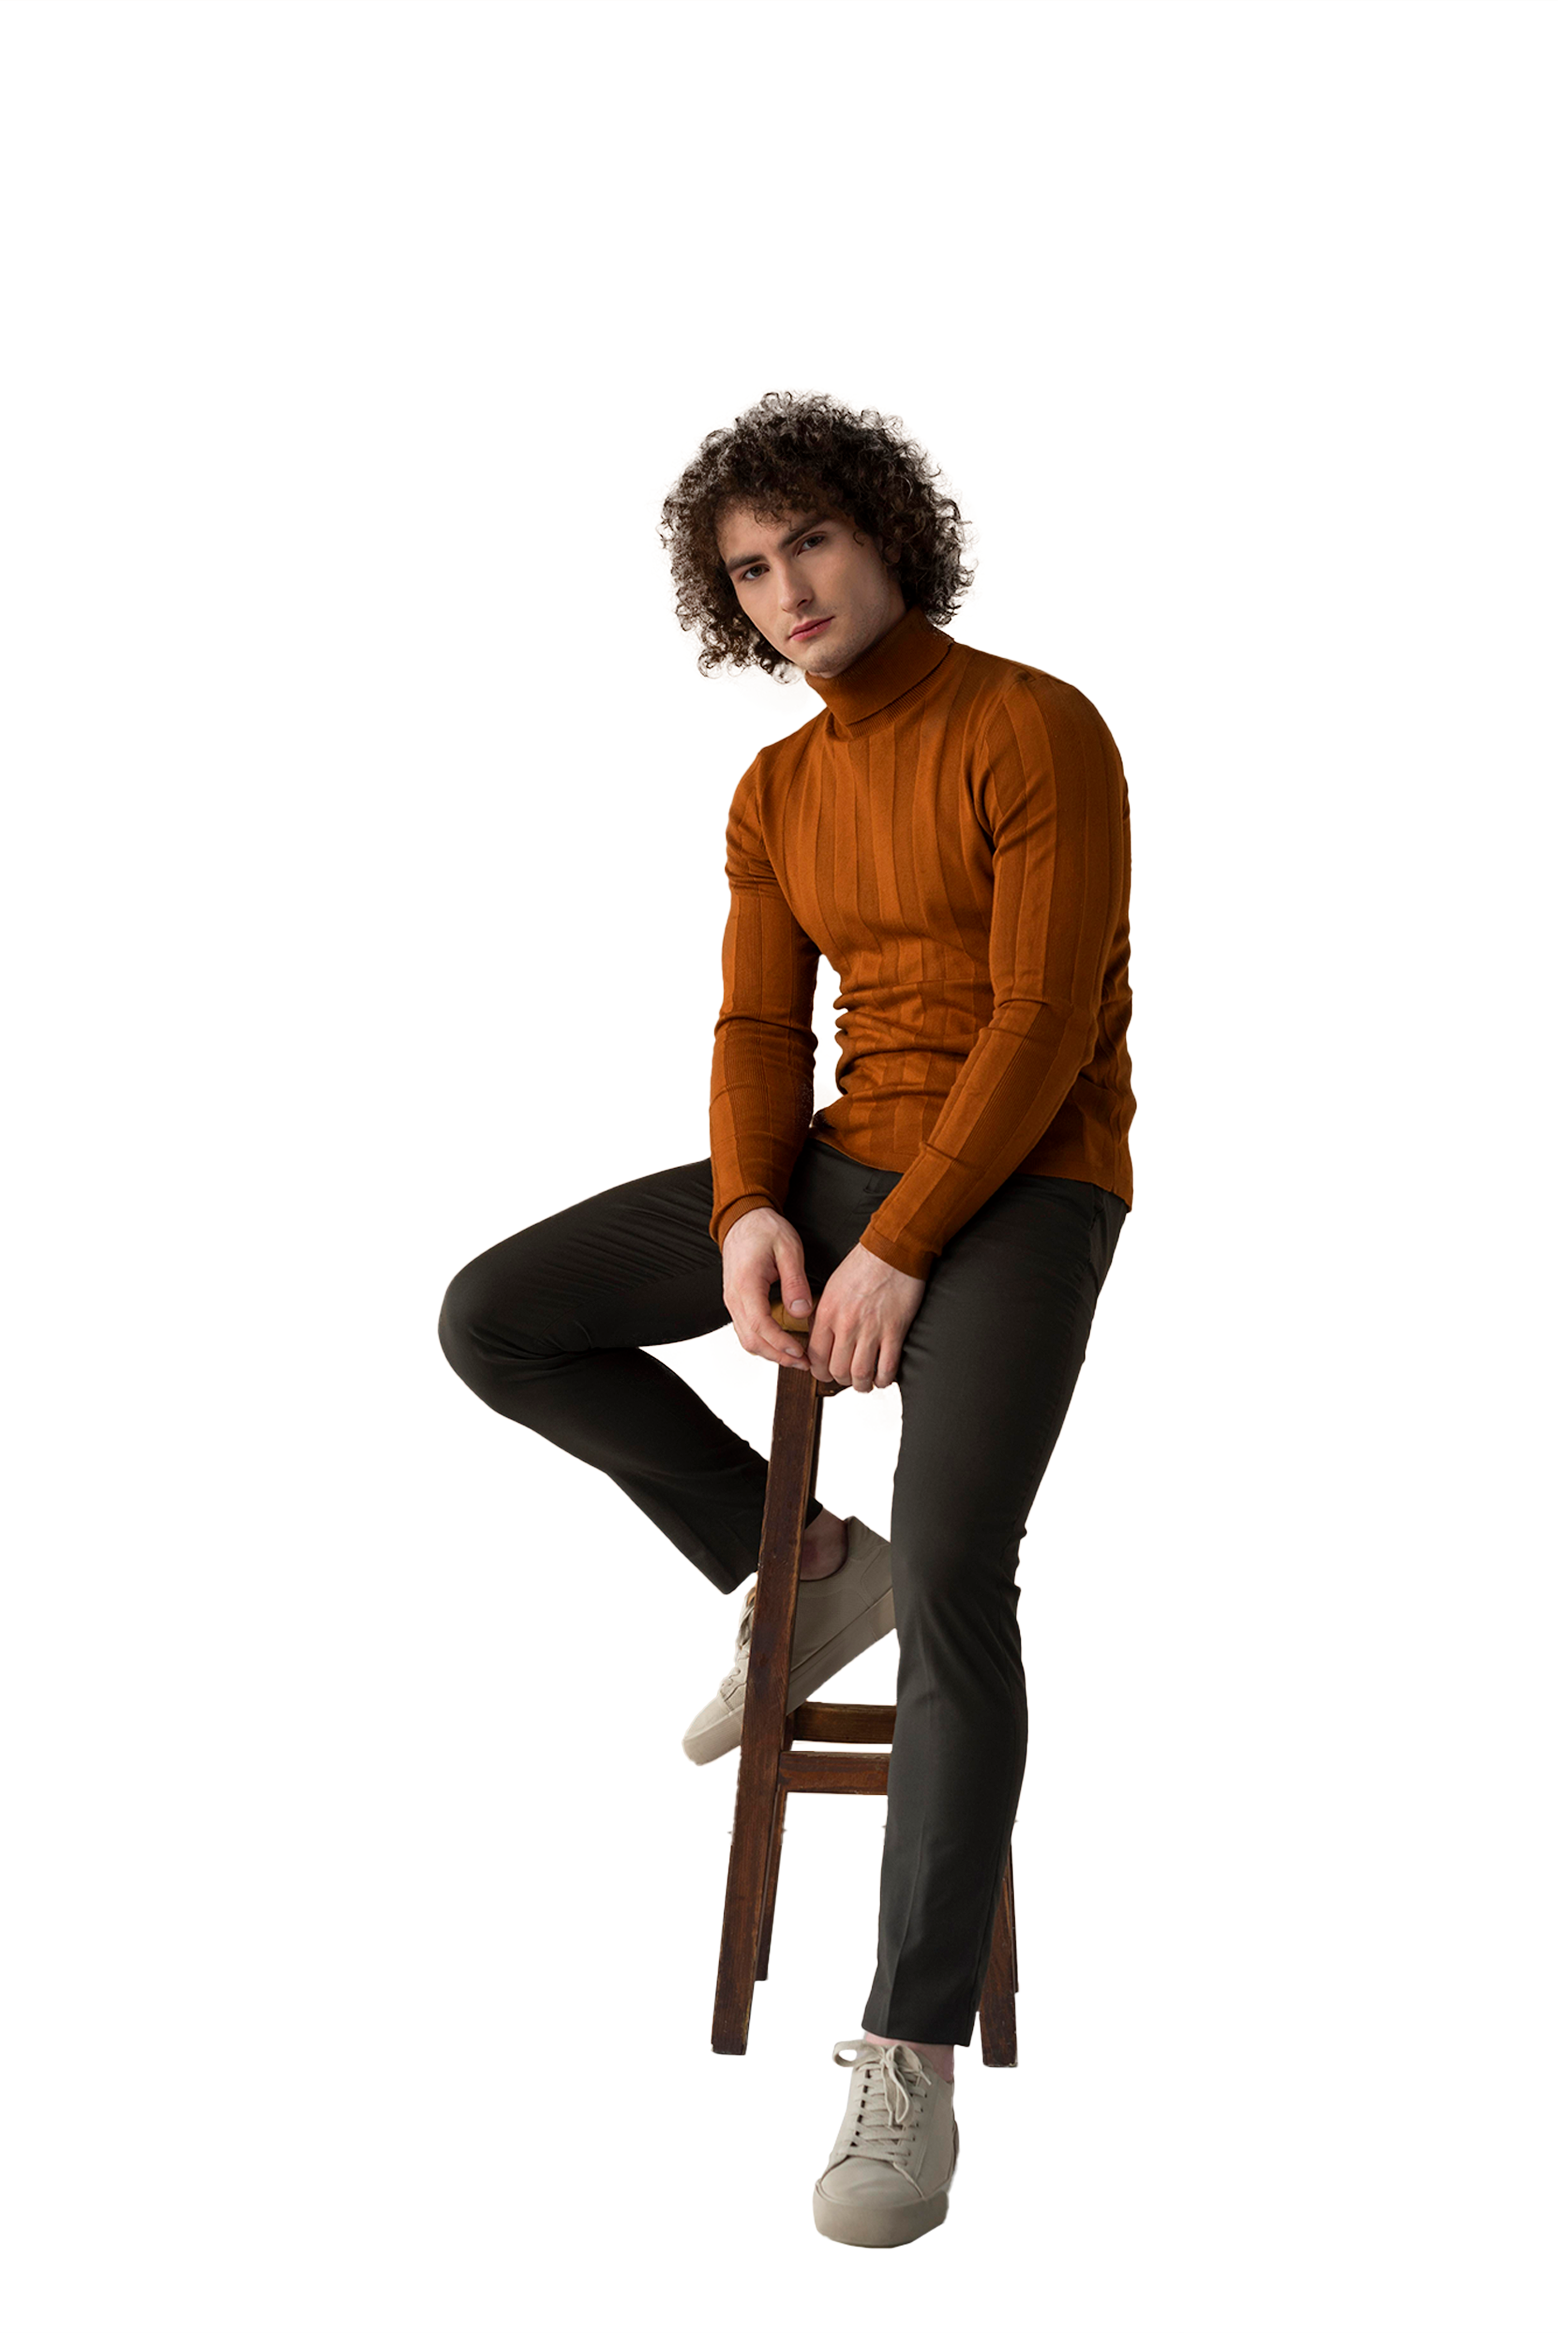
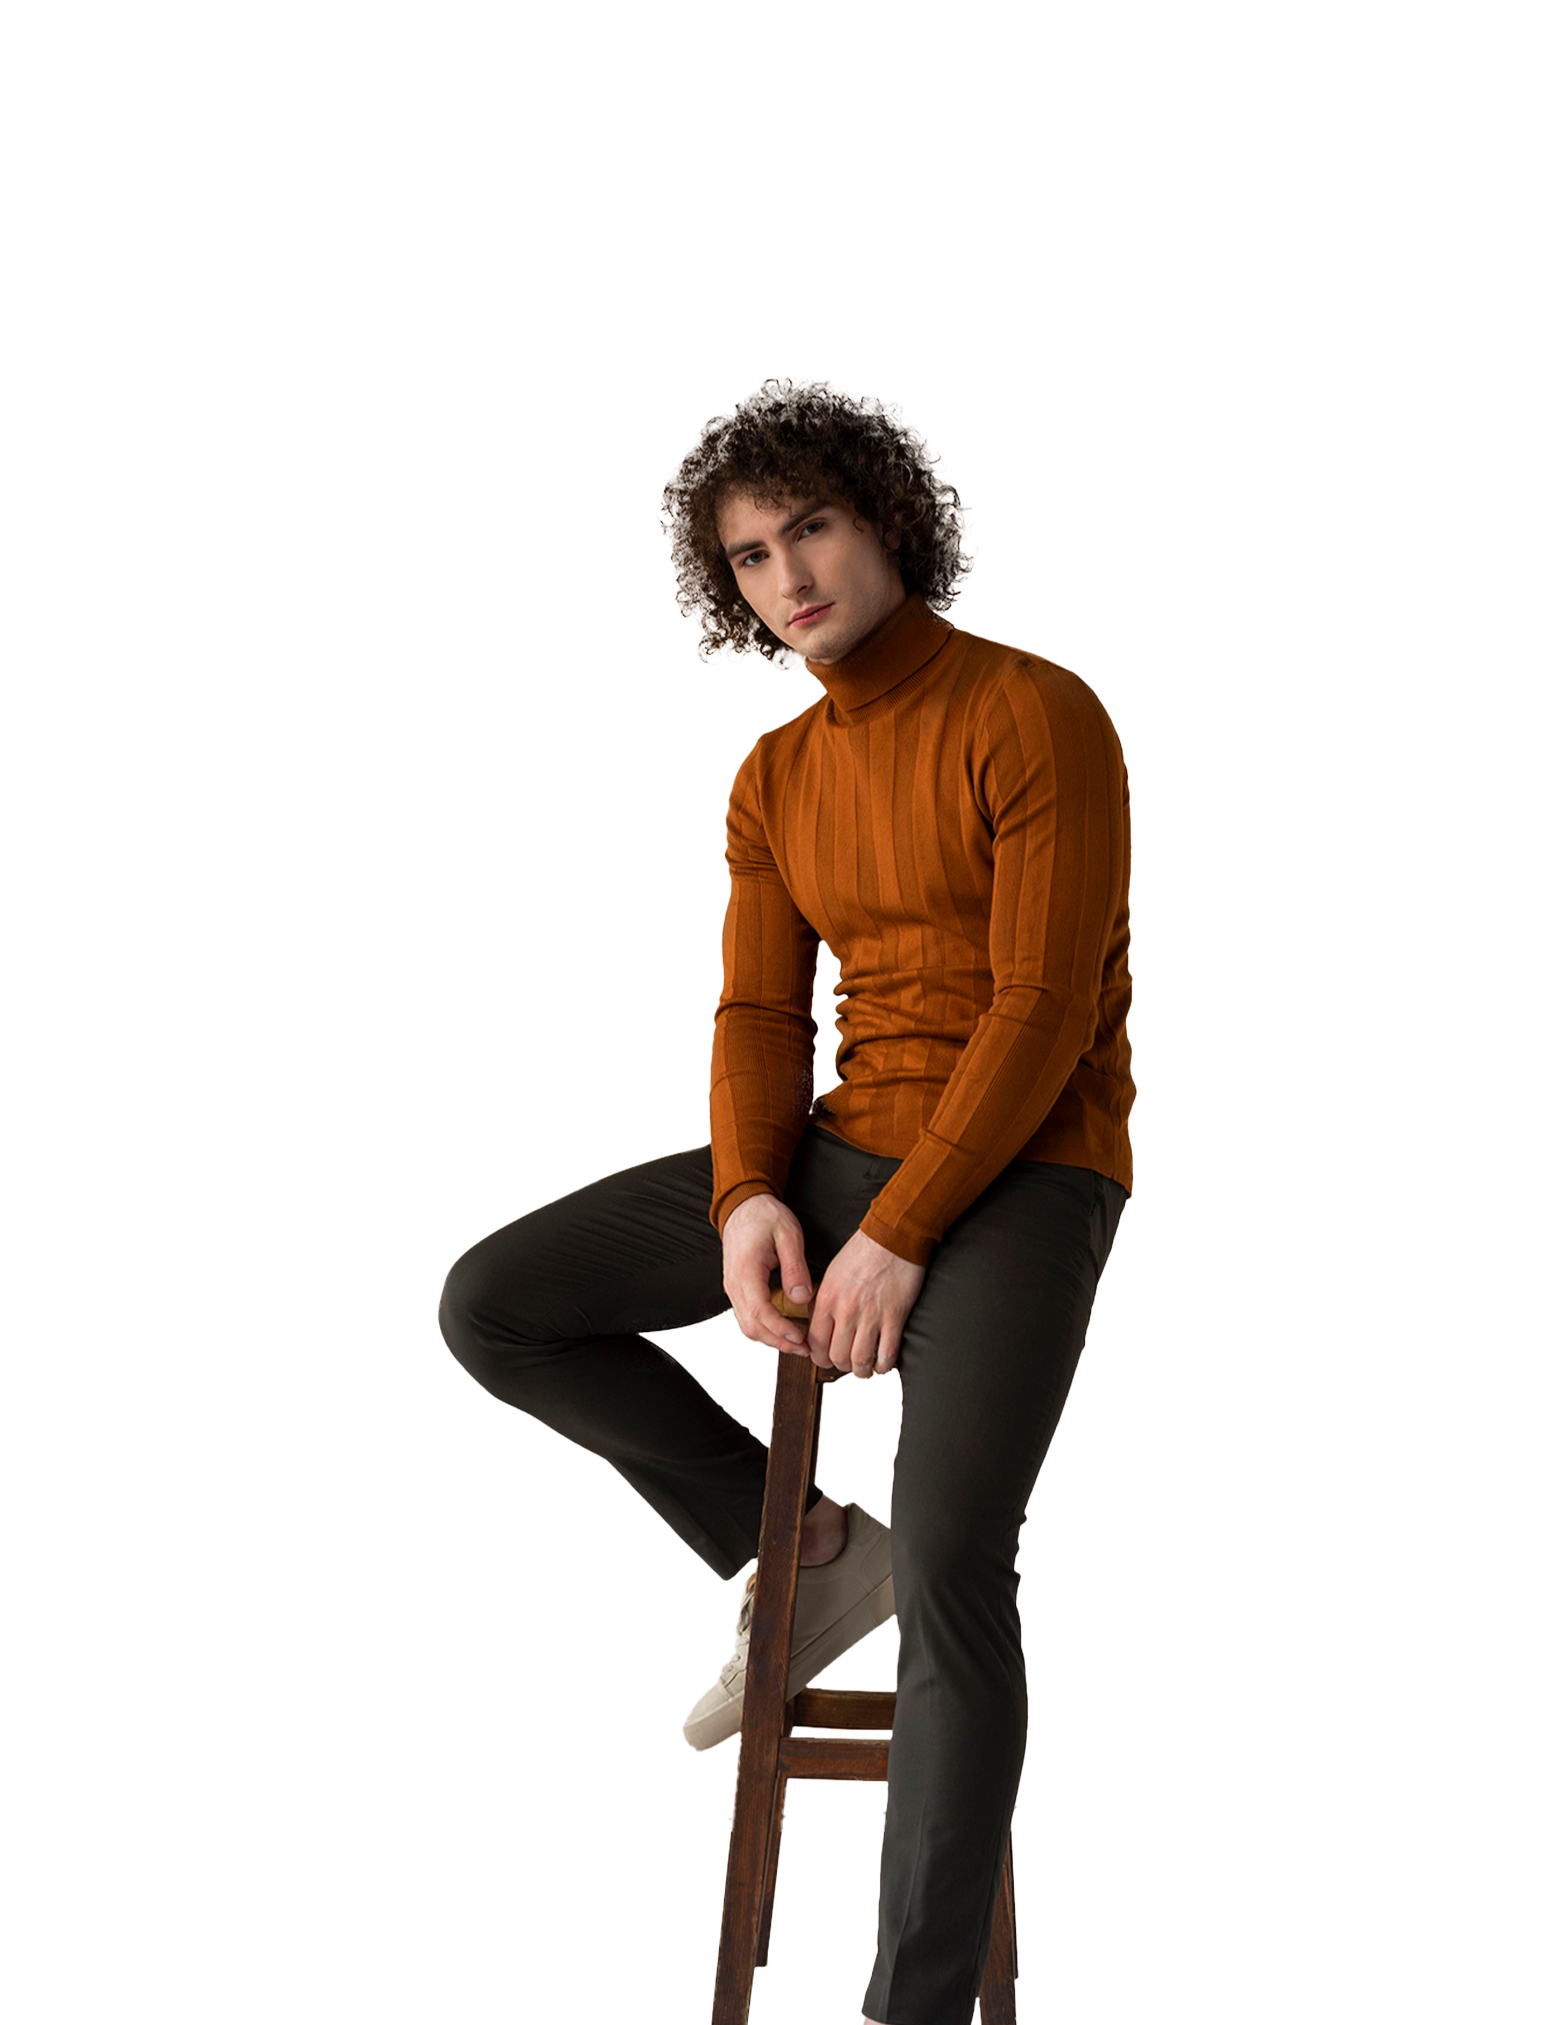
home1

Changed region(s): [[0.2773, 0.1556, 0.7394, 1.0]]

diff --git a/src/components/home/home.css b/src/components/home/home.css
@@ -1,19 +1,47 @@
-.imgbox1-home {
-  z-index: 1;
-  position: relative;
-  width: 400px;
-  height: 756px;
-  top: 190px;
-  left: 1cm;
-  border-radius: 10px;
-  background-color: #e0e0e0;
+.home-body1 {
+  display: flex;
 }
 
-.img1-home {
-  z-index: 0;
-  width: 400px;
-  height: 650px;
-  /* position: absolute;
-  top: 350px;
-  left: 320px; */
+.imgbox1-home {
+  position: relative;
+  border-radius: 10px;
+  background-color: #e0e0e0;
+  width: 392px;
+  height: 700px;
+  margin-right: 20px;
+  margin-left: 15px;
+}
+
+.img1-b1 {
+  width: 500px;
+  height: 756px;
+  margin-left: -60px;
+}
+
+.imgbox1-horiz {
+  border-radius: 10px;
+  background-color: #e0e0e0;
+  width: 426px;
+  height: 150px;
+}
+
+.img1-hz1 {
+  width: 430px;
+  height: 150px;
+}
+
+.imgbox2-home {
+  position: relative;
+  border-radius: 10px;
+  background-color: #e0e0e0;
+  width: 392px;
+  height: 700px;
+  margin-right: 20px;
+  margin-left: 20px;
+}
+
+.img1-b2 {
+  width: 500px;
+  height: 700px;
+  margin-left: -60px;
 }

diff --git a/src/components/home/home.js b/src/components/home/home.js
@@ -1,15 +1,30 @@
 import React from "react";
 import Navbar from "../navbar/navbar";
 import blackmansitting from "../Images/blackmansitting.png";
+import whitemansitting from "../Images/whitemansitting.png";
+import groupofgirls from "../Images/groupofgirls.png";
 import "./home.css";
 
 function Home() {
   return (
     <>
       <Navbar />
-      <div>
+      <div className="home-body1">
         <div className="imgbox1-home">
-          <img className="img1-home" src={blackmansitting} alt="blackman-home" />{" "}
+          <img className="img1-b1" src={blackmansitting} alt="blackman-home" />
+        </div>
+
+        <div className="imgbox1-horiz">
+          <img className="img1-hz1" src={groupofgirls} alt="groupofgirls" />
+
+          <br />
+
+          <h2>ULTIMATE</h2>
+          <h1>SALE</h1>
+        </div>
+
+        <div className="imgbox2-home">
+          <img className="img1-b2" src={whitemansitting} alt="whiteman-home" />
         </div>
       </div>
     </>
